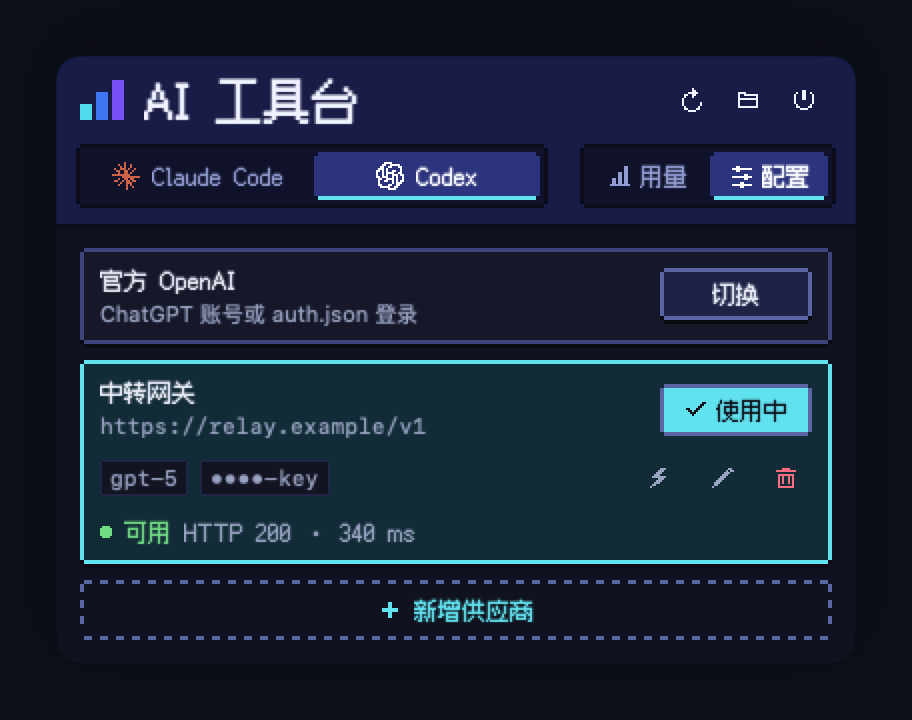
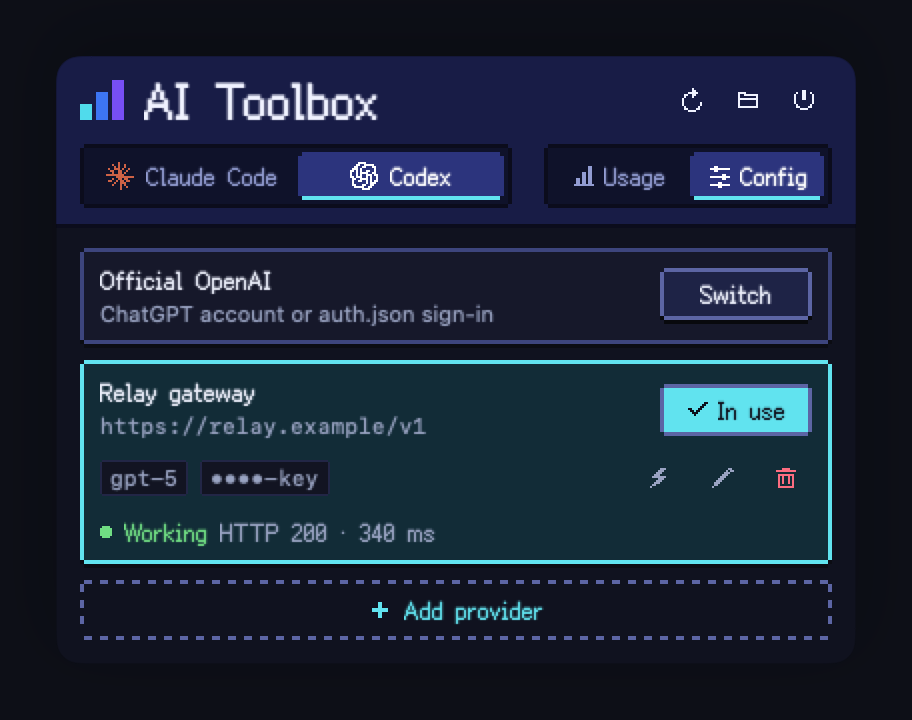
docs: English README and re-rendered screenshots
The README is in English and describes the English interface, the Latin
pixel face, and K / M / B numbers. The screenshots are re-rendered from the
English build; the old ones showed the Chinese UI.

diff --git a/README.md b/README.md
@@ -1,108 +1,127 @@
-# AI 工具台 / AIToolbox
+# AI Toolbox / AIToolbox
 
 <p align="center">
-  <img src="docs/images/hero.png" width="720" alt="AI 工具台：用量与配置，尽在菜单栏">
+  <img src="docs/images/hero.png" width="720" alt="AI Toolbox: usage and configuration, right in the menu bar">
 </p>
 
-macOS 菜单栏应用：把 Codex 与 Claude Code 的本地用量、趋势和供应商配置收进
-一个像素风面板。数据全部来自本机日志，不查询任何远端账单或订阅额度。
+A macOS menu bar app that gathers the local usage, trends and provider
+configuration of Codex and Claude Code into one pixel-styled panel. Everything
+comes from this Mac's own logs; it never queries a remote bill or subscription
+quota.
 
-Swift 6 编写，无外部 SPM 依赖，要求 macOS 13+。
+Written in Swift 6, with no external SPM dependencies, and requires macOS 13+.
 
-## 界面
+## Interface
 
-| 用量详情 | 供应商配置 |
+| Usage details | Provider configuration |
 | --- | --- |
-| ![用量详情（浅色）](docs/images/detail-light.png) | ![供应商配置（浅色）](docs/images/config-light.png) |
+| ![Usage details (light)](docs/images/detail-light.png) | ![Provider configuration (light)](docs/images/config-light.png) |
 
-跟随系统的浅色与深色外观（`docs/images/detail-dark.png`、`docs/images/config-dark.png`）。
+It follows the system's light and dark appearance (`docs/images/detail-dark.png`,
+`docs/images/config-dark.png`).
 
-- **用量**：今日输出、输入构成（缓存读、缓存写、未缓存）、近 7 天逐日输出、
-  累计用量和模型排行。累计和模型两张卡片可以折叠，折叠状态会记住。
-- **配置**：官方登录与已保存的供应商列成一组，「使用中」的那一项按下、
-  其余可切换；可测试端点、编辑、删除、导入当前生效的配置。删除供应商和
-  切回 Claude Code 官方登录前会先确认。
+- **Usage**: today's output, the input composition (cache read, cache write,
+  uncached), per-day output over the last 7 days, lifetime usage and a model
+  ranking. The lifetime and models cards collapse, and the collapsed state is
+  remembered.
+- **Config**: the official sign-in and the saved providers form one group. The
+  one in use is pressed in and the rest can be switched to; each can be tested,
+  edited or deleted, and the configuration in effect can be imported. Deleting a
+  provider and switching back to Claude Code's official sign-in both confirm
+  first.
 
-## 设计
+## Design
 
-- 网格：1 个像素 = 1 pt，边框 2 pt，阶梯切角，硬投影，在 1x 与 Retina 屏上都不发虚。
-- 字体：标题、标签和数字用方舟像素字体（Ark Pixel 12px，简体中文）；带句号的
-  说明文字用系统字体，保证长文本可读。
-- 色板取自应用图标（午夜蓝、青、蓝、紫），浅色和深色各一套，正文对比度达到
-  WCAG AA；系统开启「增强对比度」时文字和边框会自动加深。
-- 动效只有步进式的加载提示；系统开启「减少动态效果」时改为静止的沙漏和方块。
-- 数字按中文习惯显示：1 万以下为完整数字，以上用「万」「亿」并保留三位有效
-  数字；悬停可看到精确值。
+- Grid: 1 pixel = 1 pt, 2 pt borders, stepped corners and hard shadows, so
+  nothing blurs on either a 1x or a Retina display.
+- Type: titles, labels and numbers use the Ark Pixel font (Ark Pixel 12px, Latin
+  variant); running text stays in the system font so long passages remain
+  readable.
+- The palette comes from the app icon (midnight navy, cyan, blue, violet), with
+  one set for light and one for dark, and body text meets WCAG AA; turning on
+  Increase Contrast deepens text and borders.
+- Motion is limited to a step-wise loading indicator; with Reduce Motion on it
+  becomes a still hourglass and blocks.
+- Numbers follow English grouping: full digits below 10,000, and K / M / B / T
+  above with three significant digits kept; hovering reveals the exact value.
 
-## 构建与测试
+## Build and test
 
 ```bash
 swift build
 swift test
 ```
 
-包产物为可执行 target（`AIToolbox`），界面资源（像素字体及其授权文件）随包打包。
+The package product is an executable target (`AIToolbox`); the interface
+resources (the pixel font and its licence file) ship with the bundle.
 
-可选的渲染任务（只用示例数据）：
+Optional render tasks (sample data only):
 
 ```bash
-USAGE_RENDER_DOCS=1 swift test --filter DocumentationRenderTests/testRenderDocumentation   # 更新 docs/images
-USAGE_RENDER_GALLERY=/tmp/gallery swift test --filter DocumentationRenderTests/testRenderGallery  # 全部页面与状态
-USAGE_RENDER_ICON=1 swift test --filter DocumentationRenderTests/testRenderAppIcon         # 重新生成应用图标
+USAGE_RENDER_DOCS=1 swift test --filter DocumentationRenderTests/testRenderDocumentation   # updates docs/images
+USAGE_RENDER_GALLERY=/tmp/gallery swift test --filter DocumentationRenderTests/testRenderGallery  # every page and state
+USAGE_RENDER_ICON=1 swift test --filter DocumentationRenderTests/testRenderAppIcon         # regenerates the app icon
 ```
 
-## 打包与安装
+## Packaging and installation
 
 ```bash
 bash scripts/package-app.sh
 ```
 
-脚本未设可执行位，用 `bash` 显式运行。产物为 `dist/AIToolbox.app`（ad-hoc
-签名）。图标直接取 `Assets/AppIcon.iconset` 中逐尺寸绘制的像素图，不做缩放。
-安装到 /Applications：
+The script has no executable bit set, so run it through `bash` explicitly. The
+product is `dist/AIToolbox.app` (ad-hoc signed). The icon comes straight from the
+per-size pixel art in `Assets/AppIcon.iconset`, with no resampling. To install it
+in /Applications:
 
 ```bash
-pgrep -x AIToolbox || true          # 确认未运行
+pgrep -x AIToolbox || true          # make sure it is not running
 rm -rf /Applications/AIToolbox.app
 cp -R dist/AIToolbox.app /Applications/
 open /Applications/AIToolbox.app
 ```
 
-## 首次运行
+## First run
 
-启动后图标出现在菜单栏右侧（状态项区），点击打开用量与配置面板。应用为
-`LSUIElement`，不出现在 Dock；如需开机自启，在「系统设置 → 通用 → 登录项」
-里手动添加本应用。
+After launch the icon appears on the right of the menu bar (the status item
+area); clicking it opens the usage and configuration panel. The app is an
+`LSUIElement`, so it does not appear in the Dock; to launch it at login, add it
+yourself under System Settings → General → Login Items.
 
-界面只有简体中文；`Info.plist` 把 zh-Hans 声明为唯一本地化，面板里的系统
-部件（文本框右键菜单、系统错误信息）也随之显示中文。
+The interface is English only; `Info.plist` declares `en` as its sole
+localization, so the system pieces inside the panel (text-field context menus,
+system error messages) come out in English too.
 
-## 数据来源与隐私
+## Data sources and privacy
 
-- Codex 用量：本机 `~/.codex/sessions/` 会话日志
-- Claude Code 用量：本机 `~/.claude/projects/` 会话日志
-- 供应商配置库：`~/Library/Application Support/AIToolbox/providers.json`
+- Codex usage: this Mac's `~/.codex/sessions/` session logs
+- Claude Code usage: this Mac's `~/.claude/projects/` session logs
+- Provider library: `~/Library/Application Support/AIToolbox/providers.json`
 
-应用只读这些本机文件，不发起任何远端用量查询。配置面板修改
-`~/.codex/config.toml` 与 `~/.claude/settings.json` 时为原子写入，原文件
-自动备份为同目录 `.ai-toolbox.bak`；只改自己负责的键，不动其余配置。
+The app only reads these local files and makes no remote usage query. When the
+configuration panel changes `~/.codex/config.toml` or `~/.claude/settings.json`
+it writes atomically, backs the original up as `.ai-toolbox.bak` beside it, and
+touches only the keys it owns, leaving the rest of the configuration alone.
 
-## 卸载
+## Uninstalling
 
-1. 退出应用（菜单栏图标 → 退出）
-2. 删除 `/Applications/AIToolbox.app`
-3. 如需清掉配置库：删除
+1. Quit the app (menu bar icon → Quit)
+2. Delete `/Applications/AIToolbox.app`
+3. To remove the provider library too, delete
    `~/Library/Application Support/AIToolbox/`
-4. `.ai-toolbox.bak` 备份文件不会被自动清理，确认无需回滚后可手动删除
+4. `.ai-toolbox.bak` backups are never cleaned up automatically; delete them by
+   hand once you are sure you will not need to roll back
 
-## 分发说明
+## Distribution
 
-产物为 ad-hoc 签名，仅供本机构建自用；拷贝到其他 Mac 会被 Gatekeeper
-拦截。对外分发需要 Developer ID 签名加公证后再发布。
+The product is ad-hoc signed and meant for local builds only; copying it to
+another Mac will be stopped by Gatekeeper. Distributing it publicly needs a
+Developer ID signature and notarization first.
 
-## 第三方资源
+## Third-party resources
 
-像素字体为 [方舟像素字体（Ark Pixel Font）](https://github.com/TakWolf/ark-pixel-font)
-12px 比例宽度简体中文版，© TakWolf，依 SIL Open Font License 1.1 授权，
-未经修改随应用分发；授权全文见
-`Sources/AIToolbox/Resources/ArkPixel-OFL.txt`。
+The pixel font is the Latin variant of
+[Ark Pixel Font](https://github.com/TakWolf/ark-pixel-font) 12px proportional,
+© TakWolf, licensed under the SIL Open Font License 1.1, redistributed with the
+app unmodified; the full licence text is in
+`Sources/AIToolbox/Resources/ArkPixel-OFL.txt`.
